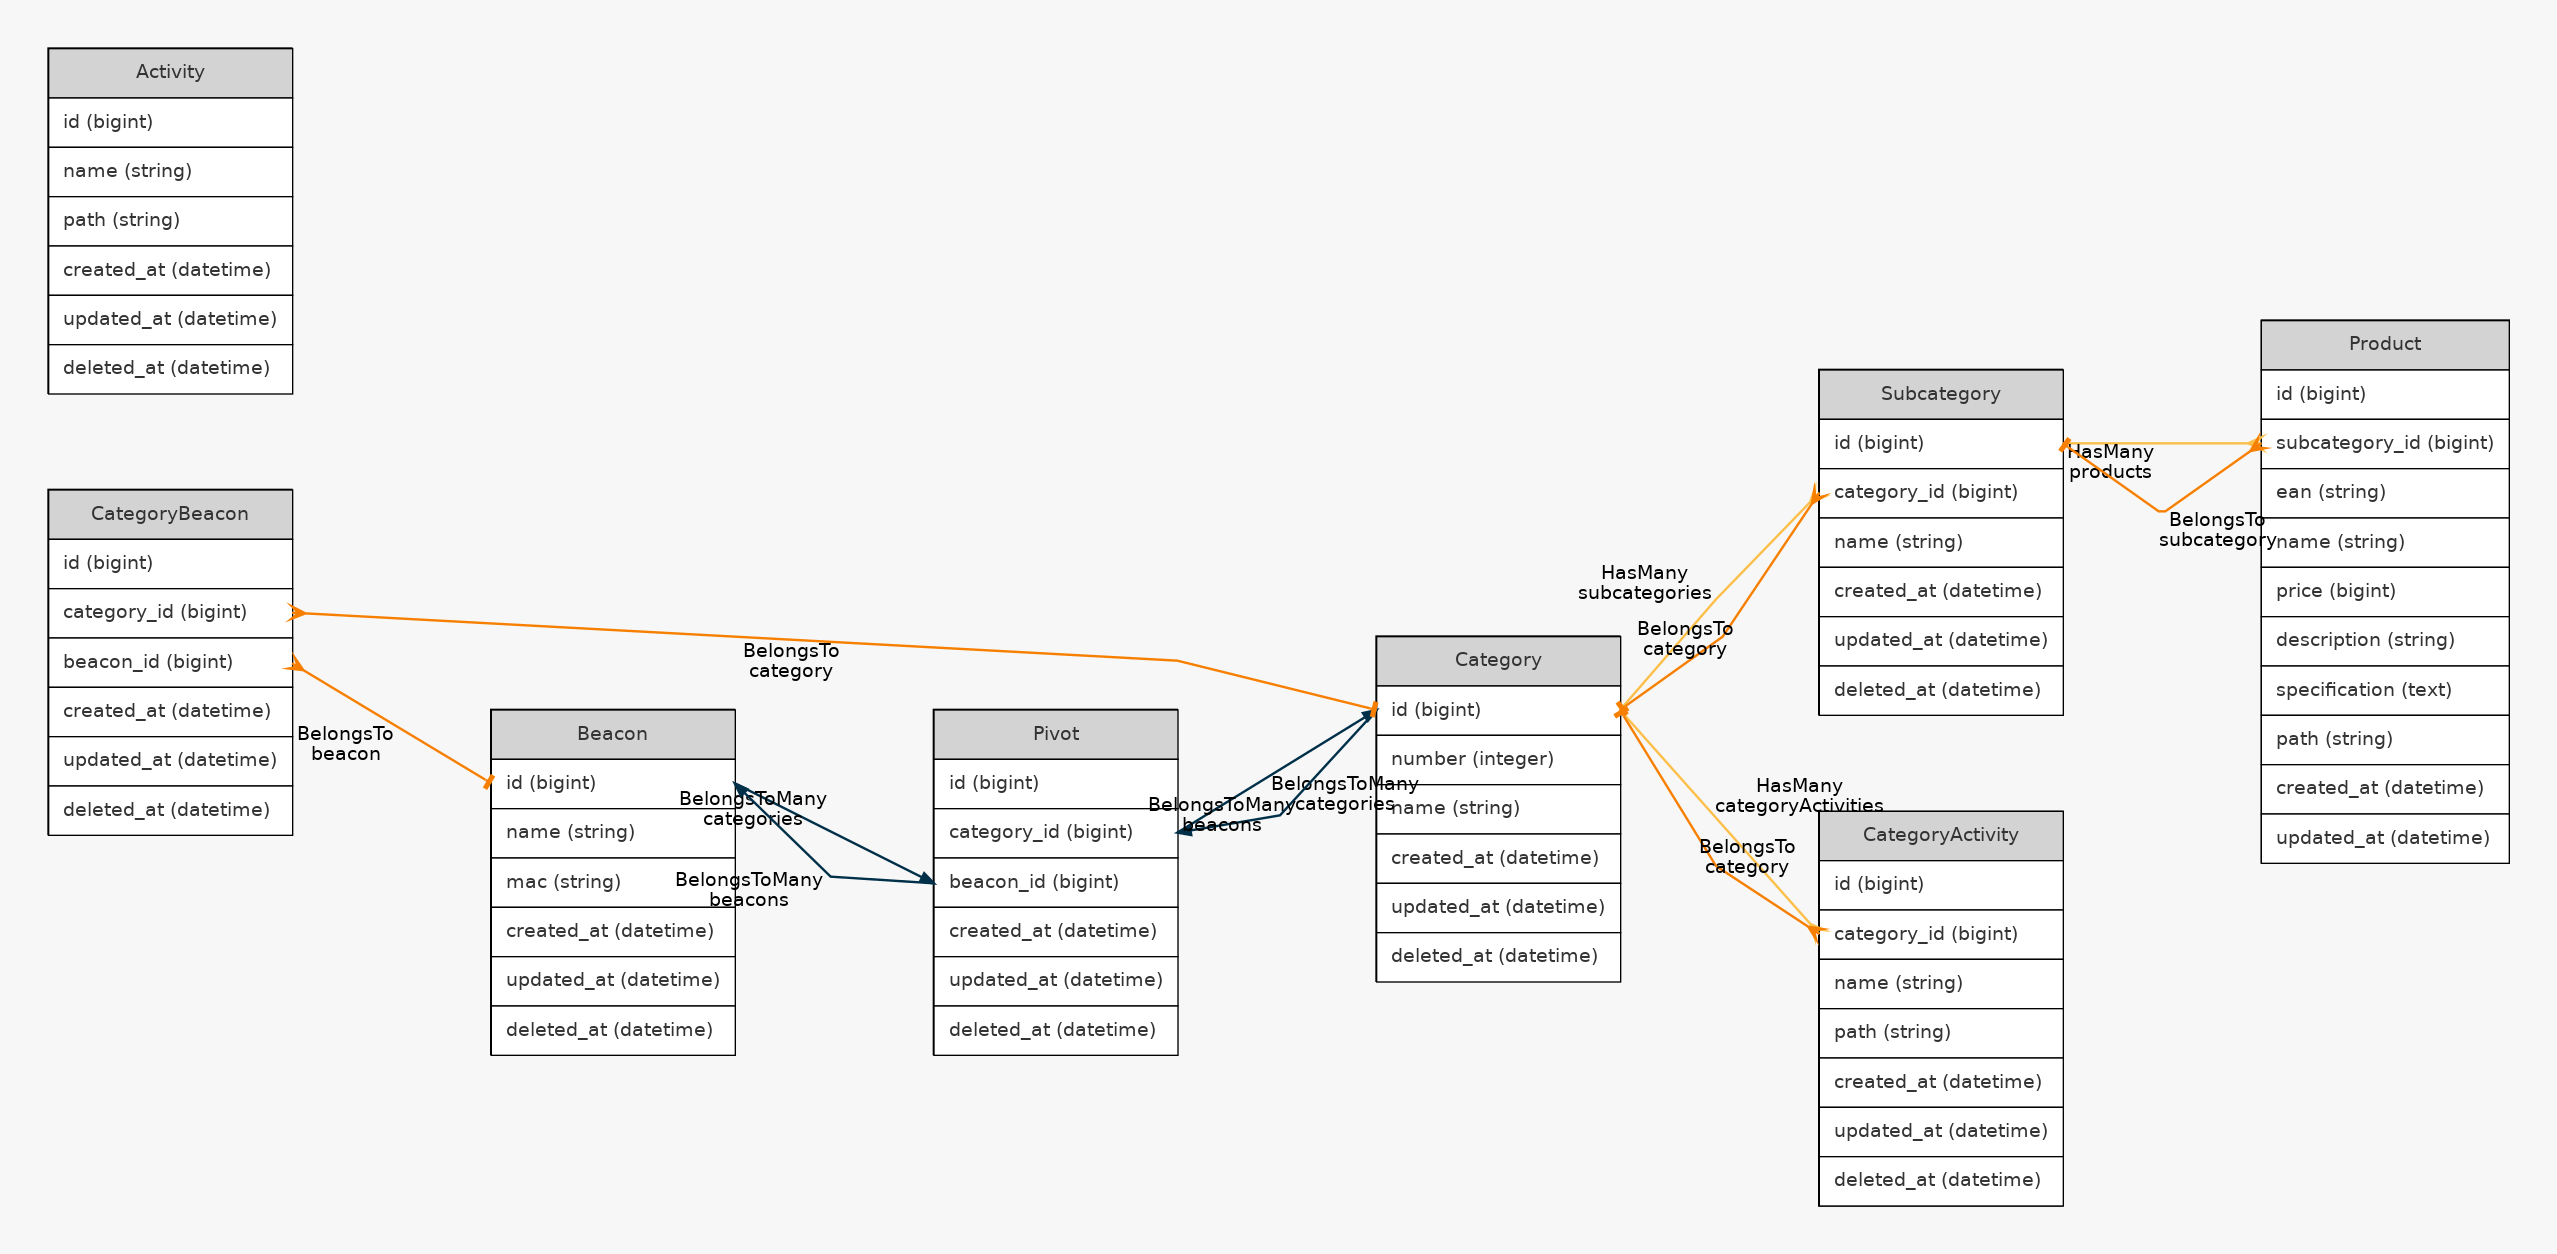
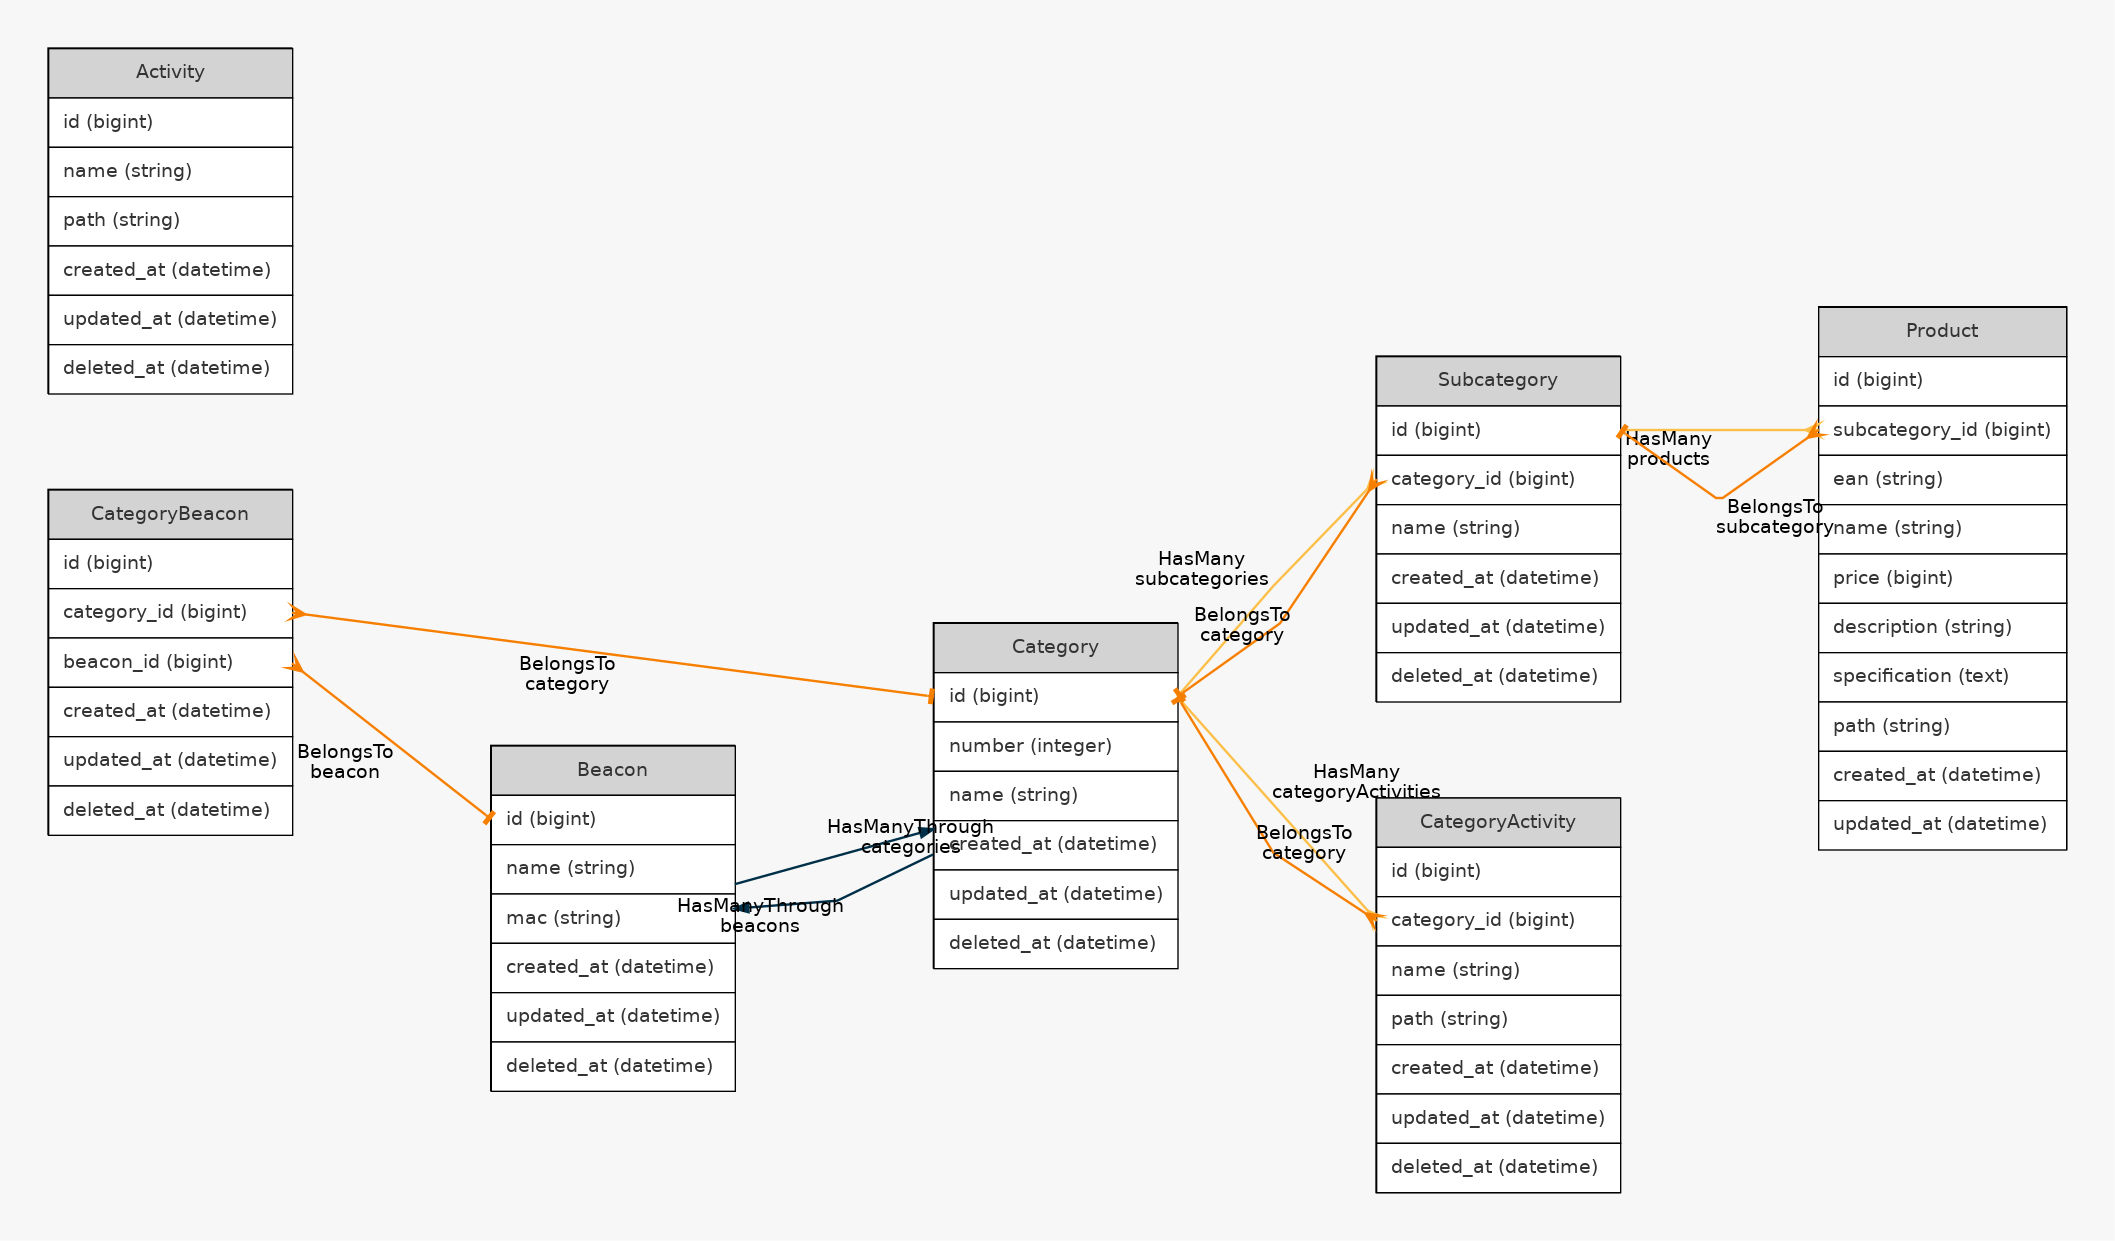
1125

Changed region(s): [[0.0, 0.245, 0.9986, 0.9492], [0.0, 0.0306, 0.156, 0.3368]]

diff --git a/database/migrations/2019_11_25_125550_create_category_beacons_table.php b/database/migrations/2019_11_25_125550_create_category_beacons_table.php
@@ -4,7 +4,7 @@ use Illuminate\Database\Migrations\Migration;
 use Illuminate\Database\Schema\Blueprint;
 use Illuminate\Support\Facades\Schema;
 
-class CreateCategoryBeaconTable extends Migration
+class CreateCategoryBeaconsTable extends Migration
 {
     /**
      * Run the migrations.
@@ -13,7 +13,7 @@ class CreateCategoryBeaconTable extends Migration
      */
     public function up()
     {
-        Schema::create('category_beacon', function (Blueprint $table) {
+        Schema::create('category_beacons', function (Blueprint $table) {
             $table->bigIncrements('id');
             $table->unsignedBigInteger('category_id');
             $table->unsignedBigInteger('beacon_id');
@@ -38,6 +38,6 @@ class CreateCategoryBeaconTable extends Migration
      */
     public function down()
     {
-        Schema::dropIfExists('category_beacon');
+        Schema::dropIfExists('category_beacons');
     }
 }

diff --git a/database/migrations/2014_10_12_000000_create_users_table.php b/database/migrations/2014_10_12_000000_create_users_table.php
@@ -1,0 +1,36 @@
+<?php
+
+use Illuminate\Database\Migrations\Migration;
+use Illuminate\Database\Schema\Blueprint;
+use Illuminate\Support\Facades\Schema;
+
+class CreateUsersTable extends Migration
+{
+    /**
+     * Run the migrations.
+     *
+     * @return void
+     */
+    public function up()
+    {
+        Schema::create('users', function (Blueprint $table) {
+            $table->bigIncrements('id');
+            $table->string('name');
+            $table->string('email')->unique();
+            $table->timestamp('email_verified_at')->nullable();
+            $table->string('password');
+            $table->rememberToken();
+            $table->timestamps();
+        });
+    }
+
+    /**
+     * Reverse the migrations.
+     *
+     * @return void
+     */
+    public function down()
+    {
+        Schema::dropIfExists('users');
+    }
+}

diff --git a/database/migrations/2019_08_19_000000_create_failed_jobs_table.php b/database/migrations/2019_08_19_000000_create_failed_jobs_table.php
@@ -1,0 +1,35 @@
+<?php
+
+use Illuminate\Database\Migrations\Migration;
+use Illuminate\Database\Schema\Blueprint;
+use Illuminate\Support\Facades\Schema;
+
+class CreateFailedJobsTable extends Migration
+{
+    /**
+     * Run the migrations.
+     *
+     * @return void
+     */
+    public function up()
+    {
+        Schema::create('failed_jobs', function (Blueprint $table) {
+            $table->bigIncrements('id');
+            $table->text('connection');
+            $table->text('queue');
+            $table->longText('payload');
+            $table->longText('exception');
+            $table->timestamp('failed_at')->useCurrent();
+        });
+    }
+
+    /**
+     * Reverse the migrations.
+     *
+     * @return void
+     */
+    public function down()
+    {
+        Schema::dropIfExists('failed_jobs');
+    }
+}

diff --git a/app/User.php b/app/User.php
@@ -1,0 +1,39 @@
+<?php
+
+namespace App;
+
+use Illuminate\Contracts\Auth\MustVerifyEmail;
+use Illuminate\Foundation\Auth\User as Authenticatable;
+use Illuminate\Notifications\Notifiable;
+
+class User extends Authenticatable
+{
+    use Notifiable;
+
+    /**
+     * The attributes that are mass assignable.
+     *
+     * @var array
+     */
+    protected $fillable = [
+        'name', 'email', 'password',
+    ];
+
+    /**
+     * The attributes that should be hidden for arrays.
+     *
+     * @var array
+     */
+    protected $hidden = [
+        'password', 'remember_token',
+    ];
+
+    /**
+     * The attributes that should be cast to native types.
+     *
+     * @var array
+     */
+    protected $casts = [
+        'email_verified_at' => 'datetime',
+    ];
+}

diff --git a/database/migrations/2014_10_12_100000_create_password_resets_table.php b/database/migrations/2014_10_12_100000_create_password_resets_table.php
@@ -1,0 +1,32 @@
+<?php
+
+use Illuminate\Database\Migrations\Migration;
+use Illuminate\Database\Schema\Blueprint;
+use Illuminate\Support\Facades\Schema;
+
+class CreatePasswordResetsTable extends Migration
+{
+    /**
+     * Run the migrations.
+     *
+     * @return void
+     */
+    public function up()
+    {
+        Schema::create('password_resets', function (Blueprint $table) {
+            $table->string('email')->index();
+            $table->string('token');
+            $table->timestamp('created_at')->nullable();
+        });
+    }
+
+    /**
+     * Reverse the migrations.
+     *
+     * @return void
+     */
+    public function down()
+    {
+        Schema::dropIfExists('password_resets');
+    }
+}

diff --git a/database/seeds/CategoryBeaconsTableSeeder.php b/database/seeds/CategoryBeaconsTableSeeder.php
@@ -2,7 +2,7 @@
 
 use Illuminate\Database\Seeder;
 
-class CategoryBeaconTableSeeder extends Seeder
+class CategoryBeaconsTableSeeder extends Seeder
 {
     /**
      * Run the database seeds.
@@ -12,7 +12,7 @@ class CategoryBeaconTableSeeder extends Seeder
     public function run()
     {
         Schema::disableForeignKeyConstraints();
-        DB::table('category_beacon')->truncate();
+        DB::table('category_beacons')->truncate();
         Schema::enableForeignKeyConstraints();
 
         for ($i = 1, $j = 14; $i <= 45, $j <= 42; $i++, $j += 2) {

diff --git a/database/seeds/DatabaseSeeder.php b/database/seeds/DatabaseSeeder.php
@@ -15,6 +15,6 @@ class DatabaseSeeder extends Seeder
         $this->call(CategoriesTableSeeder::class);
         $this->call(SubcategoriesTableSeeder::class);
         $this->call(BeaconsTableSeeder::class);
-        $this->call(CategoryBeaconTableSeeder::class);
+        $this->call(CategoryBeaconsTableSeeder::class);
     }
 }

diff --git a/app/Category.php b/app/Category.php
@@ -23,7 +23,7 @@ class Category extends Model
 
     public function beacons()
     {
-        return $this->belongsToMany('App\Beacon', 'category_beacon');
+        return $this->hasManyThrough('App\Beacon', 'App\CategoryBeacon');
     }
 
     public function categoryActivities()

diff --git a/app/CategoryBeacon.php b/app/CategoryBeacon.php
@@ -2,10 +2,10 @@
 
 namespace App;
 
-use Illuminate\Database\Eloquent\Relations\Pivot;
+use Illuminate\Database\Eloquent\Model;
 use Illuminate\Database\Eloquent\SoftDeletes;
 
-class CategoryBeacon extends pivot
+class CategoryBeacon extends Model
 {
     use SoftDeletes;
 

diff --git a/app/Beacon.php b/app/Beacon.php
@@ -13,6 +13,6 @@ class Beacon extends Model
 
     public function categories()
     {
-        return $this->belongsToMany('App\Category', 'category_beacon');
+        return $this->hasManyThrough('App\Category', 'App\CategoryBeacon');
     }
 }
